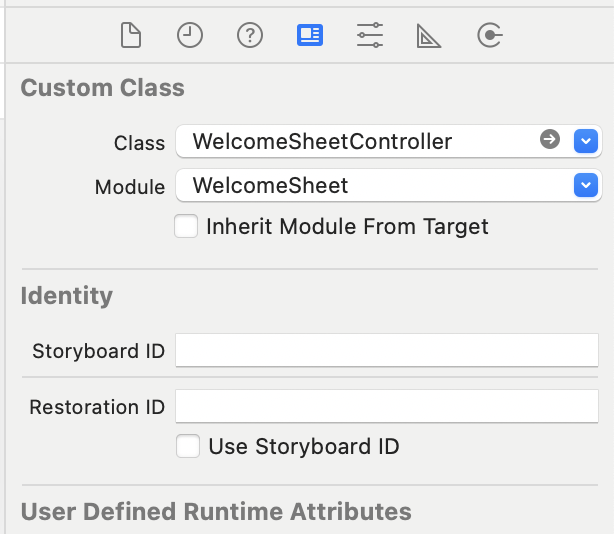
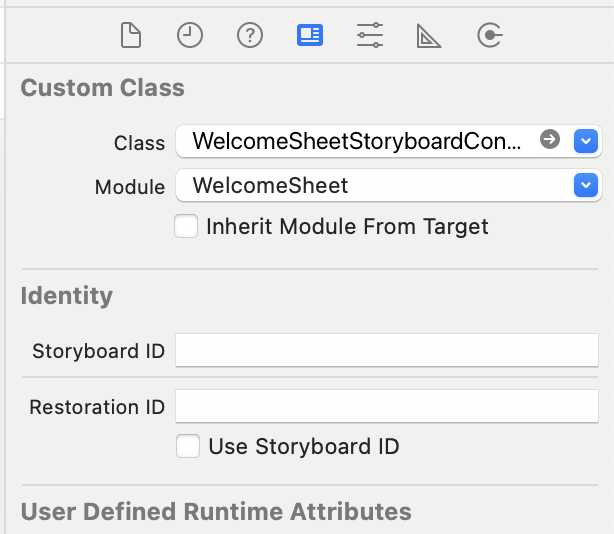
Update readme Add assertionFailure

Changed region(s): [[0.3094, 0.2397, 0.8355, 0.2996]]

diff --git a/Sources/WelcomeSheet/Extensions/UIImage+Extensions.swift b/Sources/WelcomeSheet/Extensions/UIImage+Extensions.swift
@@ -26,6 +26,7 @@ extension UIImage {
             
             let assetManagerName = assetManager.value(forKey: "_assetManagerName") as? String
         else {
+            assertionFailure("assetName or assetManagerName is not available.")
             return nil
         }
         

diff --git a/Documentation/UIKit/Readme.md b/Documentation/UIKit/Readme.md
@@ -2,12 +2,12 @@
 
 You can set up the pages of your Welcome Sheet from a Storyboard or XIB file—without writing a single line of code. Check out the [demo](../../Demo/UIKit-Storyboard-WelcomeSheetDemo/) for more details.
 
-## Creating a WelcomeSheetController
+## Creating a WelcomeSheetStoryboardController
 
-Drag out a new UIViewController and set the class to `WelcomeSheetController`.
+Drag out a new UIViewController and set the class to `WelcomeSheetStoryboardController`.
 <div style="display: flex; align-items: center">
     <img alt="A new UIViewController" src="Resources/ViewController.png" width="300px"/>
-    <img alt="Set class of the controller to WelcomeSheetController" src="Resources/SetClassOfViewController.png" width="300px"/>
+    <img alt="Set class of the controller to WelcomeSheetStoryboardController" src="Resources/SetClassOfViewController.png" width="300px"/>
 </div>
 
 ## Creating a page
@@ -49,7 +49,7 @@ Drag out a new UIViewController and set the class to `WelcomeSheetController`.
 
 To configure your Welcome sheet from a storyboard do as follows:
 
-- Drag out a new UIViewController and set the class to `WelcomeSheetController`.  
+- Drag out a new UIViewController and set the class to `WelcomeSheetStoryboardController`.  
 - For each of your pages:
     - Drag out a new Object and set the class to `UIWelcomeSheetPage`.
     - Configure the attributes
@@ -63,3 +63,7 @@ To configure your Welcome sheet from a storyboard do as follows:
 You should end up with a lot of objects like so:
 
 <img alt="Objects connected to your sheet" src="Resources/WelcomeSheetScene.png" width="300px"/>
+
+# Using a System Symbol in a UIImage
+
+Due to conversion issues between `UIImage` and SwiftUI’s `Image`, system symbols will have a squashed appearance. Welcome Sheet overcomes this issue by obtaining the name of the system symbol from the `UIImage` and creating a new `Image` from the system name.
